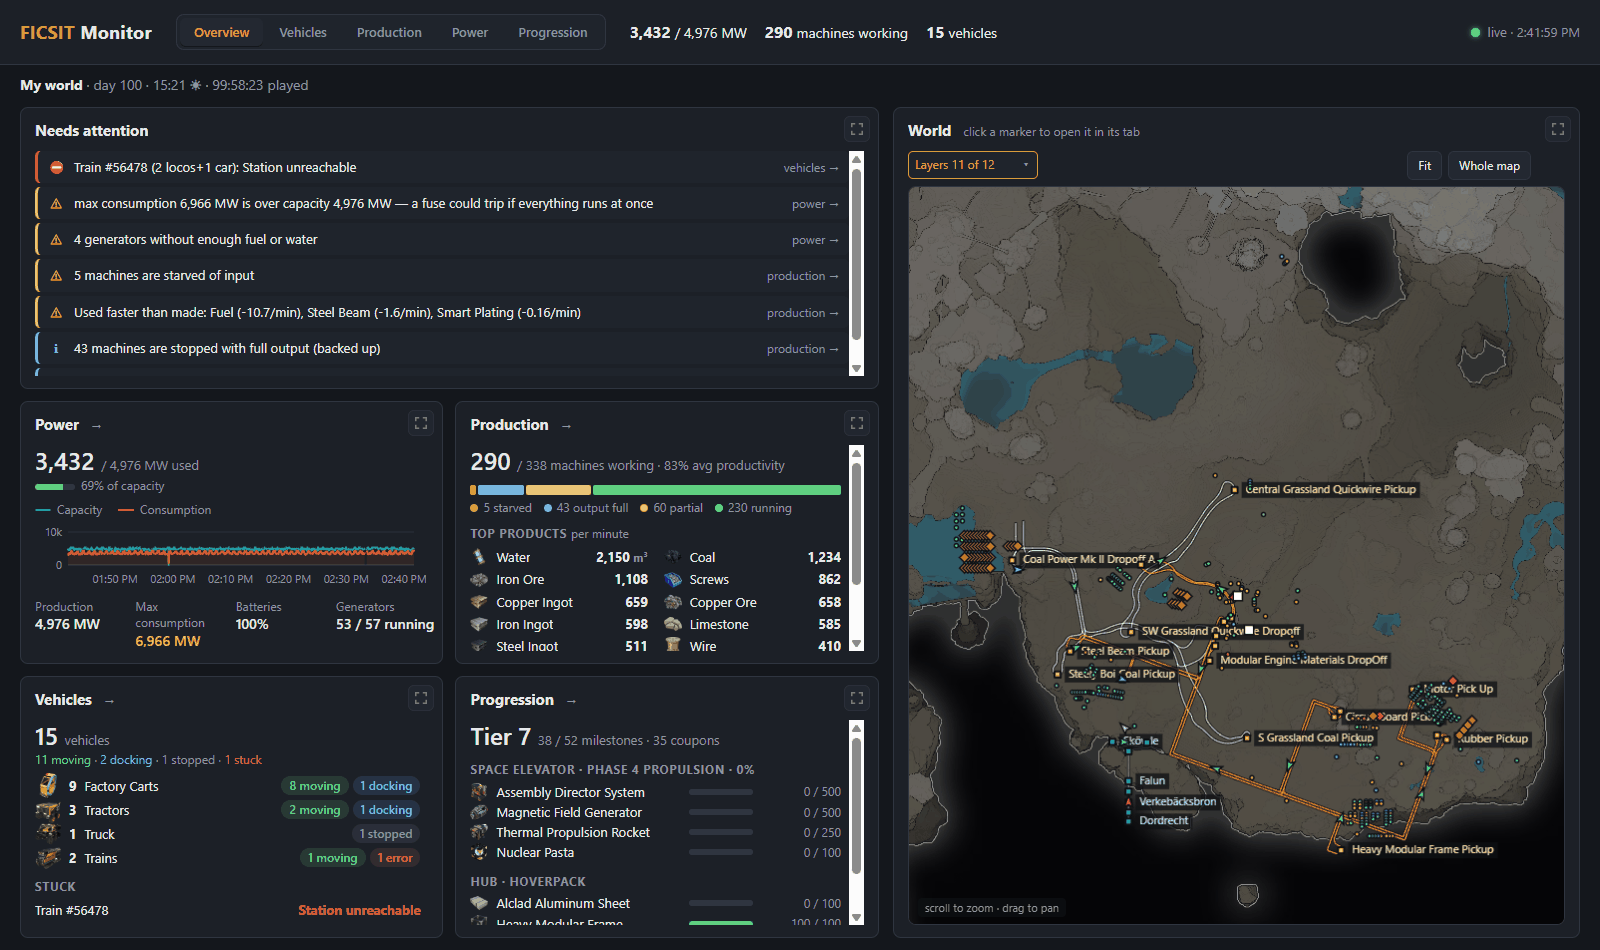
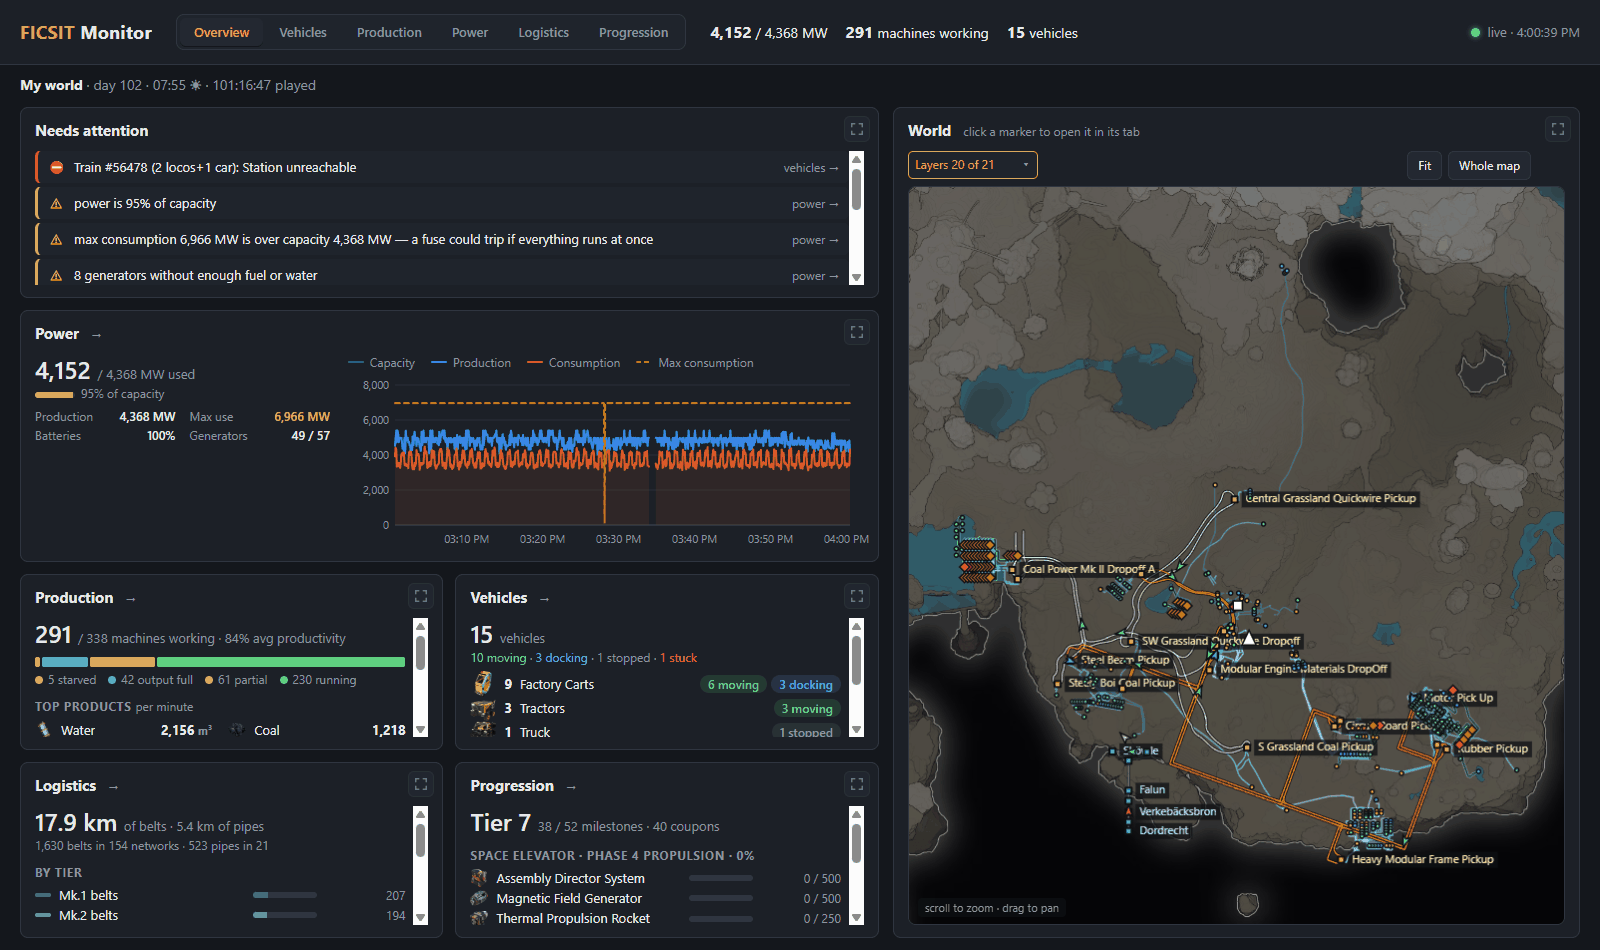
README and screenshots: belts, pipes and the Logistics tab

diff --git a/README.md b/README.md
@@ -1,15 +1,15 @@
 # Ficsit Remote Monitoring – FICSIT Monitor
 
-A live web dashboard for a Satisfactory world: how the factory is doing at a glance, every vehicle, every production machine, the power grid and your progression. It reads data from the [Ficsit Remote Monitoring](https://github.com/porisius/FicsitRemoteMonitoring) (FRM) mod's web API.
+A live web dashboard for a Satisfactory world: how the factory is doing at a glance, every vehicle, every production machine, the power grid, every conveyor belt and pipe, and your progression. It reads data from the [Ficsit Remote Monitoring](https://github.com/porisius/FicsitRemoteMonitoring) (FRM) mod's web API.
 
 ![Overview](docs/screenshots/overview.png)
 
 ## Tabs
 
 ### Overview (home)
-- **Needs attention**: an overloaded grid or tripped fuse, max consumption over capacity, generators out of fuel or water, starved machines, items used faster than they're made, stuck vehicles (derailed, station unreachable, …), milestones ready to unlock, coupons to spend. Each links to the tab that explains it.
-- **Summary cards** for power (with a chart), production (status mix, top products, shortfalls), vehicles (per type, stuck ones by name) and progression (Space Elevator and HUB parts).
-- **World map** of machines, generators, vehicles, players, the HUB and Space Elevator, roads, rail, drone routes and stations.
+- **Needs attention**: an overloaded grid or tripped fuse, max consumption over capacity, generators out of fuel or water, starved machines, items used faster than they're made, stuck vehicles (derailed, station unreachable, …), unconnected belt/pipe ends, milestones ready to unlock, coupons to spend. Each links to the tab that explains it.
+- **Summary cards**: power across the top (key figures and the four-line power chart), then production (status mix, top products, shortfalls), vehicles (per type, stuck ones by name), logistics (belt and pipe totals by tier) and progression (Space Elevator and HUB parts).
+- **World map** of machines, generators, vehicles, players, the HUB, the Space Elevator, every belt and pipe, roads, rail, drone routes and truck / train stations, with a categorized Layers dropdown.
 
 ### Vehicles
 ![Vehicles](docs/screenshots/vehicles.png)
@@ -25,7 +25,14 @@ A live web dashboard for a Satisfactory world: how the factory is doing at a gla
 ### Power
 ![Power](docs/screenshots/power.png)
 - Per grid, the in-game power graph's numbers (capacity, production, consumption, max consumption) plus headroom, batteries and fuse state, with history charts.
-- Generation by generator type, consumption by building type, and every generator with its fuel, water and status, beside a map.
+- Generation by generator type, consumption by building type, and every generator with its fuel, water and status, beside a map that also shows the belts and pipes feeding the generators.
+
+### Logistics
+![Logistics](docs/screenshots/logistics.png)
+- Every conveyor belt and pipe, grouped into **networks** (belts or pipes that connect to each other), with totals, segments by tier, splitters/mergers and junctions/pumps/valves, and unconnected ends.
+- **Networks table**: what each network feeds (production, power), the buildings it connects, its length, tier mix and bottleneck (the slowest tier), and open ends. Filter by kind, purpose, building and tier.
+- Hover a belt or pipe on any map to see its tier and speed and its network; click one (or a row) to highlight the whole network.
+- FRM doesn't say what a belt or pipe connects to, so `server.py` works the networks out from geometry (ends that meet, shared splitters/mergers/junctions/pumps, conveyor lifts), and a network counts as production or power if it reaches a machine or a generator. It doesn't know what's on a belt or how full it is.
 
 ### Progression
 ![Progression](docs/screenshots/progression.png)
@@ -33,10 +40,10 @@ A live web dashboard for a Satisfactory world: how the factory is doing at a gla
 - Collectibles found (Somersloops, Mercer Spheres, power slugs) and resource nodes tapped. Click one to find the ones still out there on the map.
 
 ### Everywhere
-- Every map has a **Layers** dropdown, X/Y coordinates under the cursor, and shows players (online and offline).
+- Every map has a **Layers** dropdown, X/Y coordinates under the cursor, and shows players (online and offline). The Production and Power maps show the belts and pipes of their own lines; the Overview and Logistics maps show them all.
 - Every panel has a **full-screen** button (Esc to close). Table columns can be resized (double-click an edge to fit) and sorted.
 - On a desktop browser each tab fits one screen; on phones the panels stack.
-- `server.py` records power and production history (every 5 s / 15 s, 24 hours kept, saved to `history.json`), so charts have data from before the page was opened.
+- `server.py` records power and production history (every 5 s / 15 s, 24 hours kept, saved to `history.json`), so charts have data from before the page was opened, and works out the belt and pipe networks every minute.
 
 ## Requirements
 - Satisfactory 1.2 with the **Ficsit Remote Monitoring** mod, with its web server started (`/frm http start` in game chat, or its autostart setting turned on).
